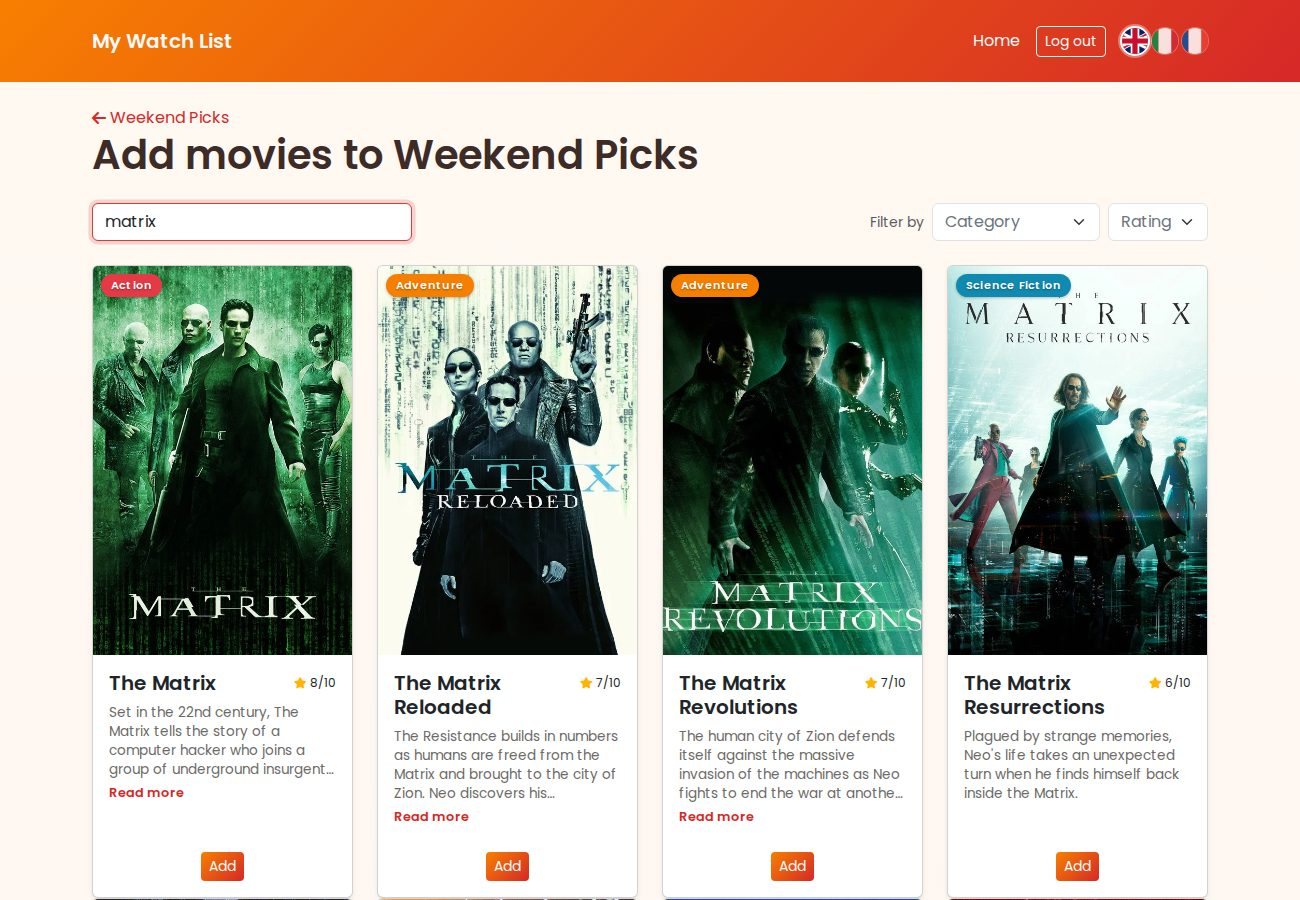
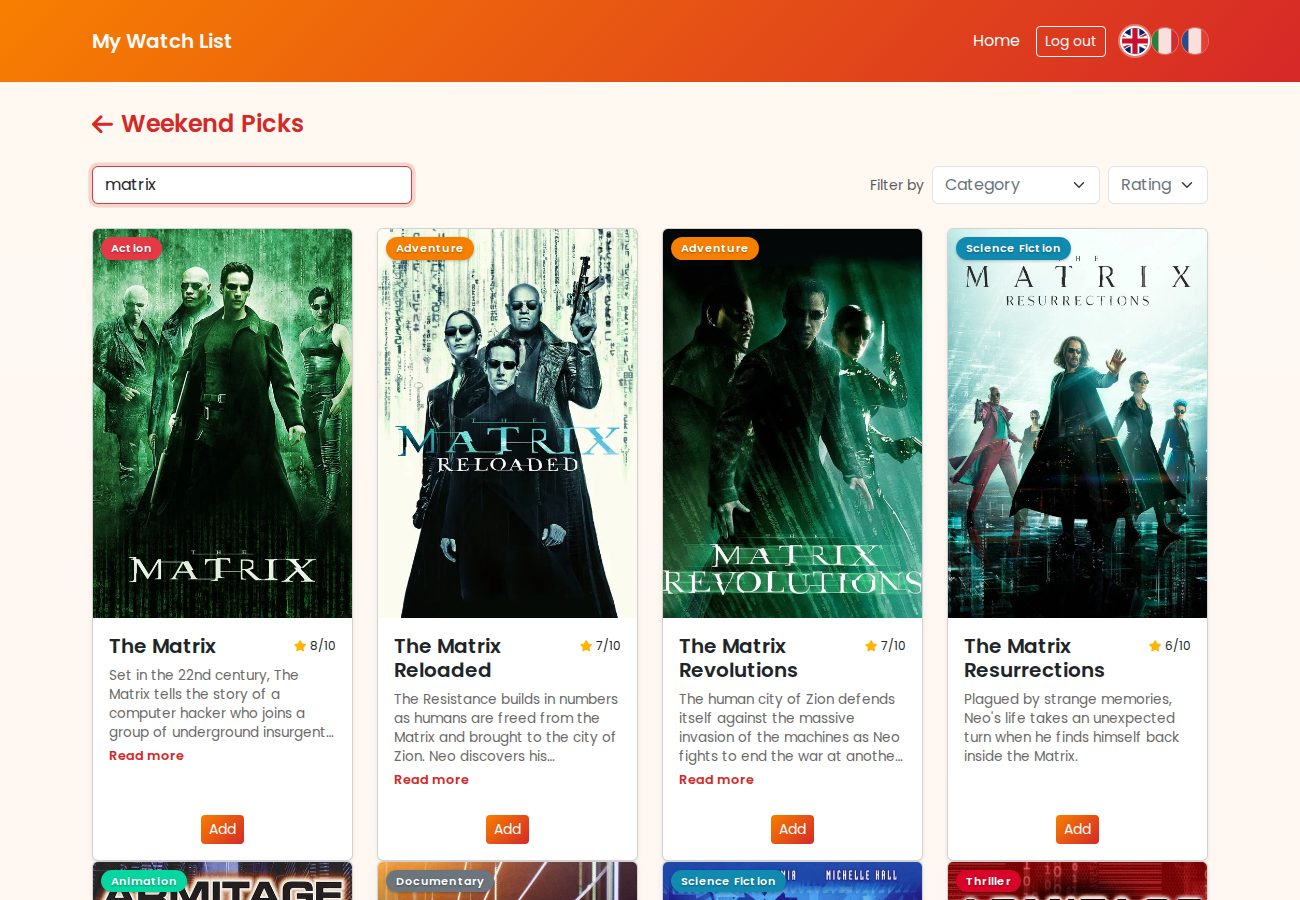
Simplify the search-page header to just the list link
Drop the "Add movies to <list>" heading; keep only the back link,
enlarged, so the list name is still clear. Remove the now-unused
translation key and refresh the README screenshot and wording.

diff --git a/README.fr.md b/README.fr.md
@@ -18,7 +18,7 @@ Inscris-toi avec n'importe quel e-mail, ou utilise le compte de démo prêt à l
 
 ![Une liste avec ses sections À voir et Vus, des affiches de films, des badges de genre, des notes en étoiles et des critiques](docs/screenshot-list.jpg)
 
-![La page de recherche de films, titrée avec le nom de la liste en cours de remplissage : les résultats TMDb en cartes avec affiche, genre, note et un résumé dépliable](docs/screenshot-search.jpg)
+![La page de recherche de films : un lien de retour vers la liste en cours de remplissage, puis les résultats TMDb en cartes avec affiche, genre, note et un résumé dépliable](docs/screenshot-search.jpg)
 
 ![La page d'accueil : un formulaire de création de liste, les listes en couleurs en dessous, et les drapeaux de langue dans l'en-tête](docs/screenshot-home.png)
 
@@ -37,7 +37,7 @@ Inscris-toi avec n'importe quel e-mail, ou utilise le compte de démo prêt à l
 
 - **Comptes** — inscription et connexion ; chaque liste est privée au compte qui l'a créée, avec réinitialisation du mot de passe par e-mail en cas d'oubli
 - **Listes** — autant qu'on veut, renommables et personnalisables avec un emoji-avatar et une couleur d'accent
-- **Recherche de films** — via l'API TMDb, filtrable par catégorie et note minimale, avec ou sans titre ; les résultats se mettent à jour pendant la frappe, la page est titrée avec la liste que l'on remplit, et chaque résultat affiche un résumé dépliable (un seul ouvert à la fois)
+- **Recherche de films** — via l'API TMDb, filtrable par catégorie et note minimale, avec ou sans titre ; les résultats se mettent à jour pendant la frappe, la page indique quelle liste on remplit avec un lien pour y revenir, et chaque résultat a un résumé dépliable (un seul ouvert à la fois)
 - **Vu / À voir** — un interrupteur sur chaque film le déplace entre les deux, mis à jour sur place avec Turbo Streams (sans rechargement)
 - **Critiques et notes** — pour un film vu, une note de 1 à 5 étoiles et un texte ; les deux sont indépendants (noter sans écrire, ou l'inverse), et la carte affiche la critique enregistrée jusqu'à ce qu'on choisisse de la modifier, le tout sans que la page saute
 - **Catégories** — attribuées automatiquement à partir du genre TMDb de chaque film

diff --git a/README.md b/README.md
@@ -18,7 +18,7 @@ Sign up with any email, or use the ready-made demo account:
 
 ![A watch list with its To Watch and Watched sections, movie posters, genre badges, star ratings and reviews](docs/screenshot-list.jpg)
 
-![The movie search page, headed with the name of the list being filled: TMDb results as cards with poster, genre, rating and an expandable synopsis](docs/screenshot-search.jpg)
+![The movie search page: a link back to the list being filled, then TMDb results as cards with poster, genre, rating and an expandable synopsis](docs/screenshot-search.jpg)
 
 ![The home page: a form to create a list, the colour-coded lists below it, and the language flags in the header](docs/screenshot-home.png)
 
@@ -37,7 +37,7 @@ Sign up with any email, or use the ready-made demo account:
 
 - **Accounts** — sign up and log in; every list is private to the account that created it, with email-based password reset if you forget it
 - **Lists** — create as many as you like, each renameable and customisable with an emoji avatar and an accent colour
-- **Movie search** — powered by the TMDb API, filterable by category and minimum rating, with or without a title; results refresh as you type, the page is headed with the list you're filling, and each result shows an expandable synopsis (only one open at a time)
+- **Movie search** — powered by the TMDb API, filterable by category and minimum rating, with or without a title; results refresh as you type, the page shows which list you're filling with a link back to it, and each result has an expandable synopsis (only one open at a time)
 - **Watched / To Watch** — a toggle switch on each movie moves it between the two, updated in place with Turbo Streams (no page reload)
 - **Reviews & ratings** — for a watched movie, a 1–5 star rating and a written note; the two are independent (rate without writing, or the reverse), and the card shows the saved review until you choose to edit it, all without the page jumping
 - **Categories** — assigned automatically from each movie's TMDb genre
